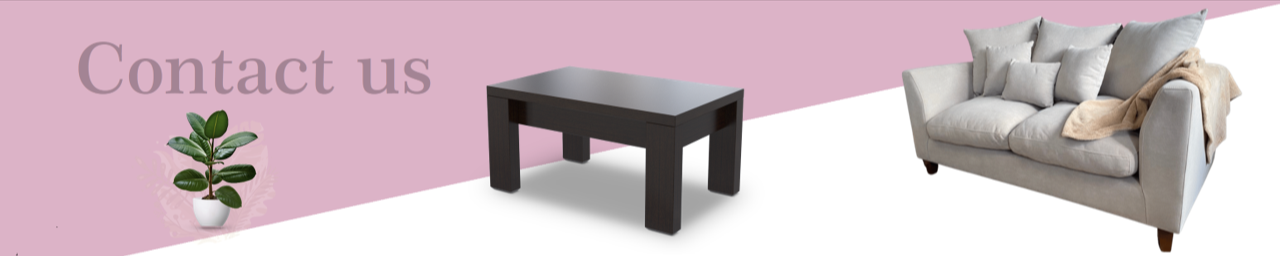
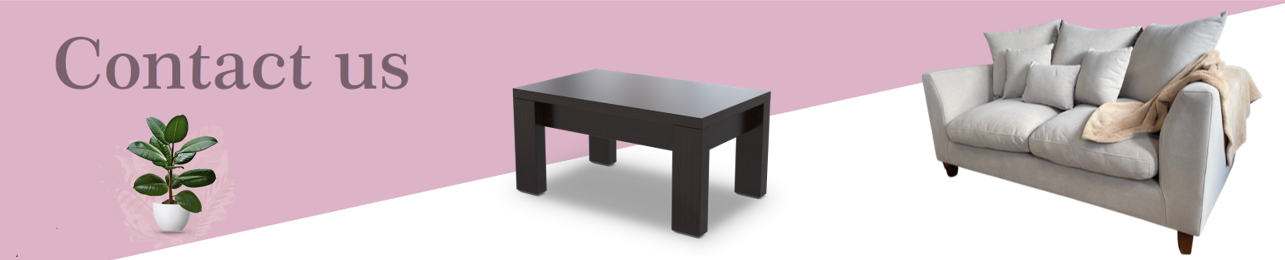
new styles

diff --git a/src/App.js b/src/App.js
@@ -4,7 +4,7 @@ import Header from './layouts/Header'
 import "./style.css";
 import Footer from './layouts/Footer';
 import Register from './layouts/Register';
-/* import Contact from './layouts/Contact'; */
+import Contact from './layouts/Contact';
 
 
 function App() {
@@ -12,8 +12,8 @@ function App() {
     <>
 
     <Header></Header>
-      {/* <Contact></Contact> */}
-      <Register></Register>
+      <Contact></Contact>
+      {/* <Register></Register> */}
       <Footer></Footer>
     </>
   );

diff --git a/src/components/Contact/contact.css b/src/components/Contact/contact.css
@@ -47,6 +47,7 @@
     flex-direction: column;
     align-items: center;
     margin-bottom: 2rem;
+    margin-top: 1.5rem;
 }
 .buttonContactForm{
     padding: 0.5rem;
